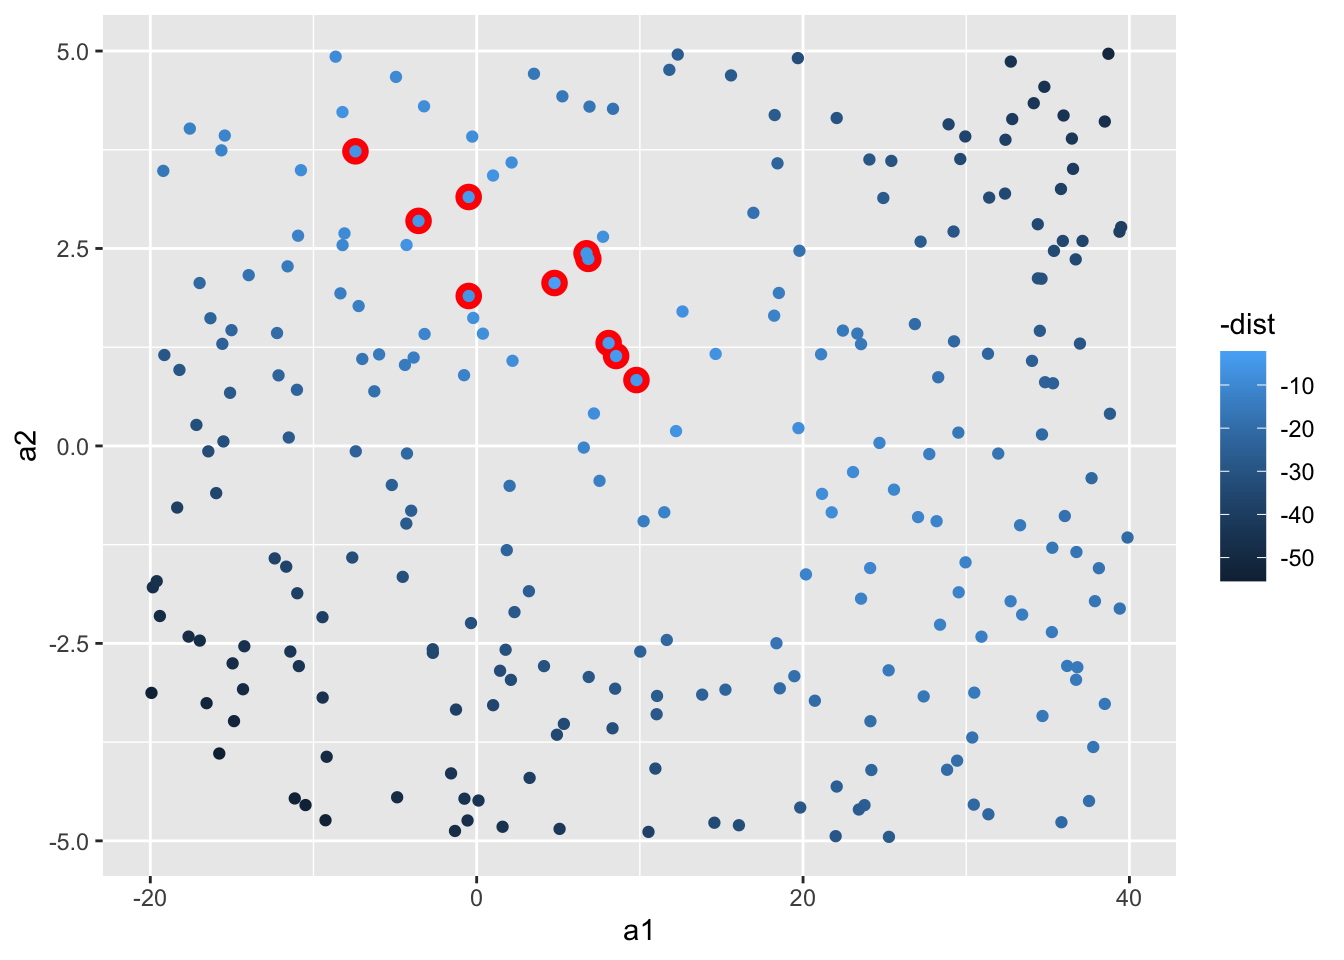
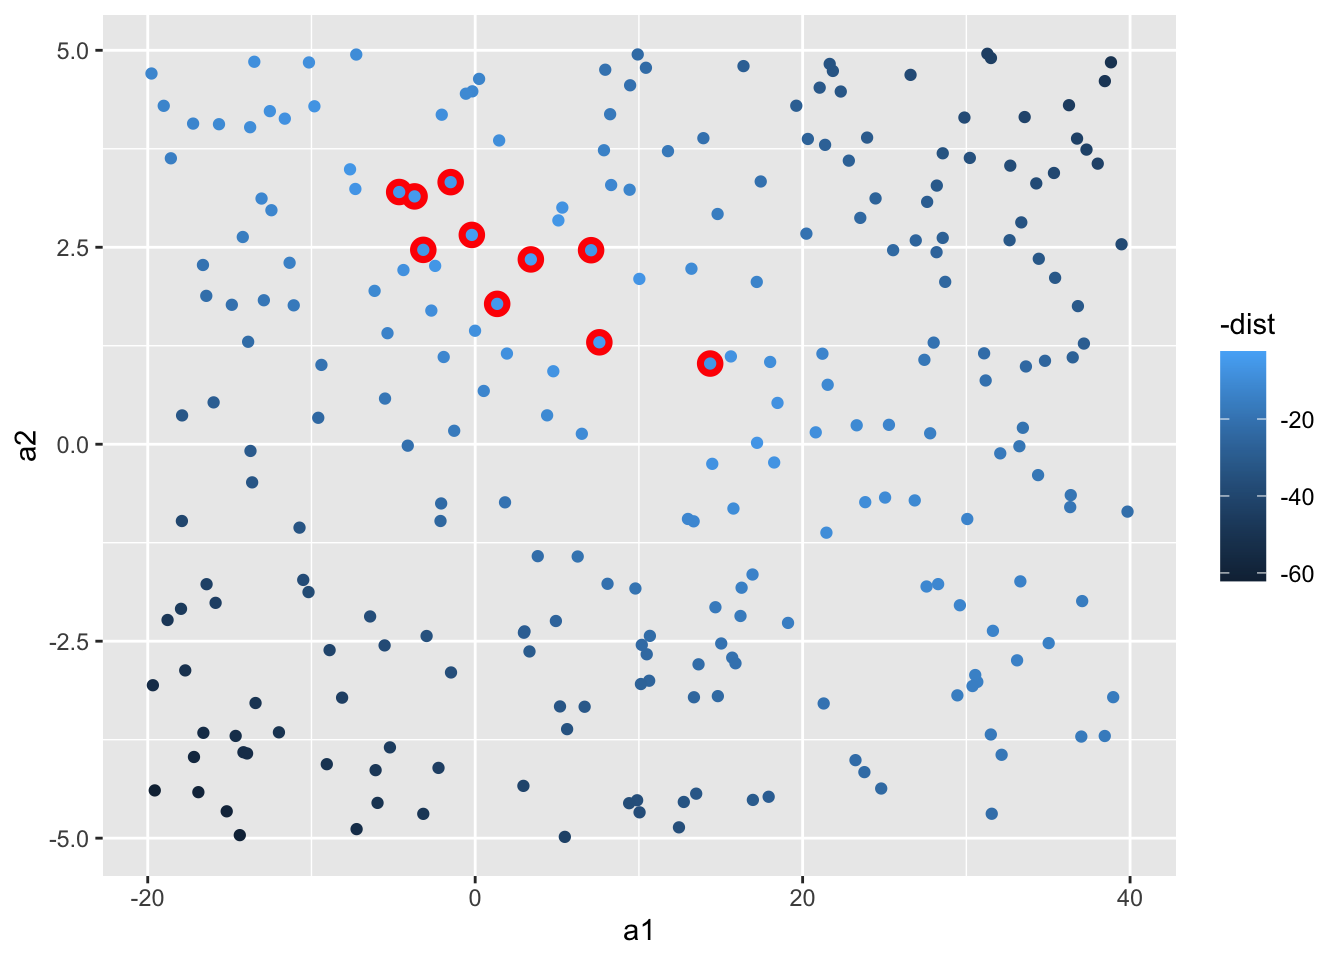
updates

diff --git a/docs/index.html b/docs/index.html
@@ -165,11 +165,11 @@ ul.task-list li input[type="checkbox"] {
 <blockquote class="blockquote">
 <p><i class="fa-solid fa-university" aria-label="university"></i> &nbsp; Research Associate in Immunology, Department of Immunology</p>
 <p><i class="fa-solid fa-envelope" aria-label="envelope"></i> &nbsp; <a href="mailto:eren_ada@hms.harvard.edu">eren_ada@hms.harvard.edu</a></p>
-<div class="column" style="width:50%;">
-
-</div>
+<p><strong>Office Hours</strong></p>
+<p><i class="fa-solid fa-calendar" aria-label="calendar"></i> &nbsp; By Appointment</p>
 </blockquote>
 </section>
+</div><div class="column" style="width:50%;">
 <section id="jessica-frank" class="level5">
 <h5 data-anchor-id="jessica-frank"><i class="fa-solid fa-user" aria-label="user"></i> &nbsp; Jessica Frank</h5>
 <blockquote class="blockquote">
@@ -183,14 +183,13 @@ ul.task-list li input[type="checkbox"] {
 </section>
 </div>
 </div>
-<p>:::</p>
 </section>
 <section id="schedule" class="level2">
 <h2 data-anchor-id="schedule">Schedule</h2>
 <div class="cell">
 <div class="cell-output-display">
-<div class="reactable html-widget html-fill-item" id="htmlwidget-43d4c5769a38dba0daf4" style="width:auto;height:auto;"></div>
-<script type="application/json" data-for="htmlwidget-43d4c5769a38dba0daf4">{"x":{"tag":{"name":"Reactable","attribs":{"data":{"Session":["R Basics","Functions and Data Wrangling","Data Visualization","Introduction to Models",null,null,null,null,null],"Date":["3-Sep","5-Sep","10-Sep","12-Sep",null,null,null,null,null],"Time":["9:00am - 11:00am","9:00am - 11:00am","9:00am - 11:00am","9:00am - 11:00am",null,null,null,null,null]},"columns":[{"id":"Session","name":"Session","type":"character"},{"id":"Date","name":"Date","type":"character"},{"id":"Time","name":"Time","type":"character"}],"sortable":false,"theme":{"color":"#212529","backgroundColor":"#ffffff","borderColor":"#ffffff","borderWidth":"1px","stripedColor":"#ecf0f1","highlightColor":"#ecf0f1","cellPadding":6,"tableStyle":{"fontSize":14},"headerStyle":{"borderWidth":"2px","backgroundColor":"#2c3e50","color":"#ffffff","transitionDuration":"0.5s","&:hover[aria-sort]":{"color":"#1cbc9c"},"&[aria-sort='ascending'], &[aria-sort='descending']":{"color":"#1cbc9c"},"fontSize":15},"groupHeaderStyle":{"&:not(:empty)":{"color":"#212529","fontSize":15},"&:hover":{"fontWeight":"bold","transitionDuration":"1s","transitionTimingFunction":"ease-out","color":"#1cbc9c"}},"rowSelectedStyle":{"backgroundColor":"#2c3e50","color":"#ffffff"},"inputStyle":{"backgroundColor":"#ffffff","color":"#212529"},"searchInputStyle":{"backgroundColor":"#ffffff","color":"#212529","&:focus":{"color":"#212529"}},"selectStyle":{"backgroundColor":"#18bc9c","color":"#ffffff","borderColor":"#ffffff","outlineColor":"#ffffff","&:hover":{"backgroundColor":"#0f7864"}},"pageButtonStyle":{"backgroundColor":"#18bc9c","color":"#ffffff","&:hover":{"backgroundColor":"#0f7864"}},"pageButtonHoverStyle":{"backgroundColor":"#0f7864","color":"#ffffff"},"pageButtonActiveStyle":{"backgroundColor":"#0f7864","color":"#ffffff"},"pageButtonCurrentStyle":{"backgroundColor":"#0f7864","color":"#ffffff"}},"dataKey":"c2d299dcc1453c21a02ff924514fc886"},"children":[]},"class":"reactR_markup"},"evals":[],"jsHooks":[]}</script>
+<div class="reactable html-widget html-fill-item" id="htmlwidget-a4b96806f6542e26cdee" style="width:auto;height:auto;"></div>
+<script type="application/json" data-for="htmlwidget-a4b96806f6542e26cdee">{"x":{"tag":{"name":"Reactable","attribs":{"data":{"Session":["R Basics","Functions and Data Wrangling","Data Visualization","Introduction to Models",null,null,null,null,null],"Date":["3-Sep","5-Sep","10-Sep","12-Sep",null,null,null,null,null],"Time":["9:00am - 11:00am","9:00am - 11:00am","9:00am - 11:00am","9:00am - 11:00am",null,null,null,null,null]},"columns":[{"id":"Session","name":"Session","type":"character"},{"id":"Date","name":"Date","type":"character"},{"id":"Time","name":"Time","type":"character"}],"sortable":false,"theme":{"color":"#212529","backgroundColor":"#ffffff","borderColor":"#ffffff","borderWidth":"1px","stripedColor":"#ecf0f1","highlightColor":"#ecf0f1","cellPadding":6,"tableStyle":{"fontSize":14},"headerStyle":{"borderWidth":"2px","backgroundColor":"#2c3e50","color":"#ffffff","transitionDuration":"0.5s","&:hover[aria-sort]":{"color":"#1cbc9c"},"&[aria-sort='ascending'], &[aria-sort='descending']":{"color":"#1cbc9c"},"fontSize":15},"groupHeaderStyle":{"&:not(:empty)":{"color":"#212529","fontSize":15},"&:hover":{"fontWeight":"bold","transitionDuration":"1s","transitionTimingFunction":"ease-out","color":"#1cbc9c"}},"rowSelectedStyle":{"backgroundColor":"#2c3e50","color":"#ffffff"},"inputStyle":{"backgroundColor":"#ffffff","color":"#212529"},"searchInputStyle":{"backgroundColor":"#ffffff","color":"#212529","&:focus":{"color":"#212529"}},"selectStyle":{"backgroundColor":"#18bc9c","color":"#ffffff","borderColor":"#ffffff","outlineColor":"#ffffff","&:hover":{"backgroundColor":"#0f7864"}},"pageButtonStyle":{"backgroundColor":"#18bc9c","color":"#ffffff","&:hover":{"backgroundColor":"#0f7864"}},"pageButtonHoverStyle":{"backgroundColor":"#0f7864","color":"#ffffff"},"pageButtonActiveStyle":{"backgroundColor":"#0f7864","color":"#ffffff"},"pageButtonCurrentStyle":{"backgroundColor":"#0f7864","color":"#ffffff"}},"dataKey":"c2d299dcc1453c21a02ff924514fc886"},"children":[]},"class":"reactR_markup"},"evals":[],"jsHooks":[]}</script>
 </div>
 </div>
 

diff --git a/docs/session-materials/session1/other-data-types.html b/docs/session-materials/session1/other-data-types.html
@@ -440,16 +440,16 @@ Levels: high low medium</code></pre>
 <div class="sourceCode cell-code" id="cb10"><pre class="sourceCode r code-with-copy"><code class="sourceCode r"><span id="cb10-1"><a href="#cb10-1" aria-hidden="true" tabindex="-1"></a>df</span></code><button title="Copy to Clipboard" class="code-copy-button"><i class="bi"></i></button></pre></div>
 <div class="cell-output cell-output-stdout">
 <pre><code>   gene_names expression numeric_expression
-1         Asl       high          3850.6524
-2        Apod        low           698.1111
-3     Cyp2d22        low           279.5773
-4        Klk6     medium          3465.5096
-5       Fcrls       high          1176.1049
-6      Slc2a4     medium           241.8964
-7        Exd2     medium          2479.9806
-8        Gjc2        low           534.0505
-9        Plp1        low          1503.8968
-10       Gnb4        low          2016.6581</code></pre>
+1         Asl       high          3104.5909
+2        Apod        low          1993.5393
+3     Cyp2d22        low          2438.3442
+4        Klk6     medium          1217.5279
+5       Fcrls       high          2472.8713
+6      Slc2a4     medium          2418.4420
+7        Exd2     medium          3028.8241
+8        Gjc2        low           580.9172
+9        Plp1        low          2254.4370
+10       Gnb4        low          1184.0297</code></pre>
 </div>
 </div>
 </section>
@@ -473,16 +473,16 @@ Levels: low medium high
 
 [[2]]
    gene_names expression numeric_expression
-1         Asl       high          3850.6524
-2        Apod        low           698.1111
-3     Cyp2d22        low           279.5773
-4        Klk6     medium          3465.5096
-5       Fcrls       high          1176.1049
-6      Slc2a4     medium           241.8964
-7        Exd2     medium          2479.9806
-8        Gjc2        low           534.0505
-9        Plp1        low          1503.8968
-10       Gnb4        low          2016.6581
+1         Asl       high          3104.5909
+2        Apod        low          1993.5393
+3     Cyp2d22        low          2438.3442
+4        Klk6     medium          1217.5279
+5       Fcrls       high          2472.8713
+6      Slc2a4     medium          2418.4420
+7        Exd2     medium          3028.8241
+8        Gjc2        low           580.9172
+9        Plp1        low          2254.4370
+10       Gnb4        low          1184.0297
 
 [[3]]
 [1] 102</code></pre>

diff --git a/docs/session-materials/session4/A-simple-model.html b/docs/session-materials/session4/A-simple-model.html
@@ -461,18 +461,18 @@ pre > code.sourceCode > span > a:first-child::before { text-decoration: underlin
 <span id="cb9-8"><a href="#cb9-8" aria-hidden="true" tabindex="-1"></a>models</span></code><button title="Copy to Clipboard" class="code-copy-button"><i class="bi"></i></button></pre></div>
 <div class="cell-output cell-output-stdout">
 <pre><code># A tibble: 250 × 3
-       a1     a2  dist
-    &lt;dbl&gt;  &lt;dbl&gt; &lt;dbl&gt;
- 1 -19.4  -2.15  48.3 
- 2  39.4   2.71  38.9 
- 3 -10.9   2.66  12.1 
- 4  36.5   3.51  40.6 
- 5   9.79  0.834  4.25
- 6   4.77  2.06   2.21
- 7 -12.2   1.43  20.1 
- 8  30.9  -2.42  13.2 
- 9  33.3  -1.00  15.2 
-10  36.7  -2.96  15.4 
+        a1     a2  dist
+     &lt;dbl&gt;  &lt;dbl&gt; &lt;dbl&gt;
+ 1  33.3   -1.74   13.8
+ 2  26.6    4.69   37.7
+ 3  16.9   -1.65   13.3
+ 4  21.5    0.755  11.0
+ 5  -5.51   0.580  18.4
+ 6  26.9    2.59   25.8
+ 7  -6.08  -4.14   47.8
+ 8 -10.2   -1.88   37.8
+ 9  -0.175  4.48   11.5
+10 -16.4    1.88   21.7
 # ℹ 240 more rows</code></pre>
 </div>
 </div>
